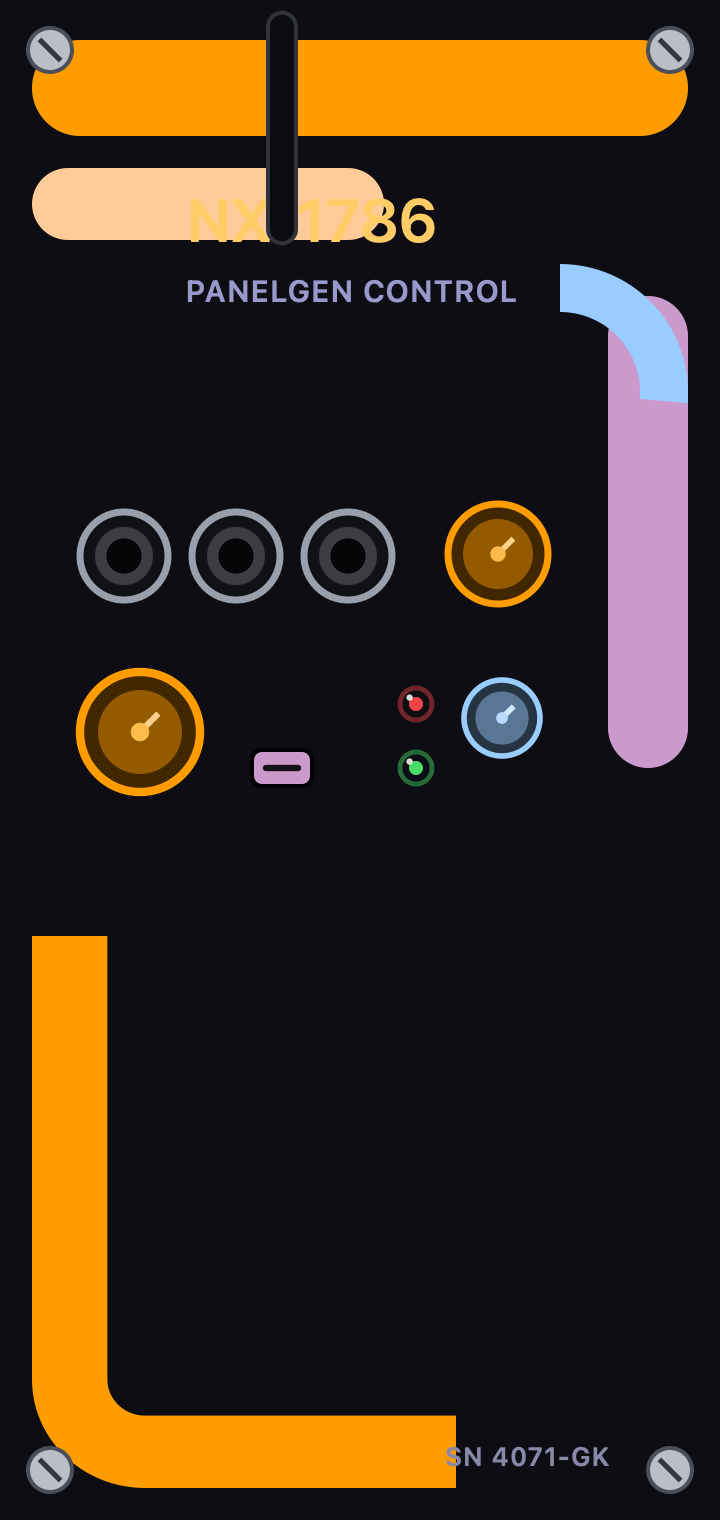
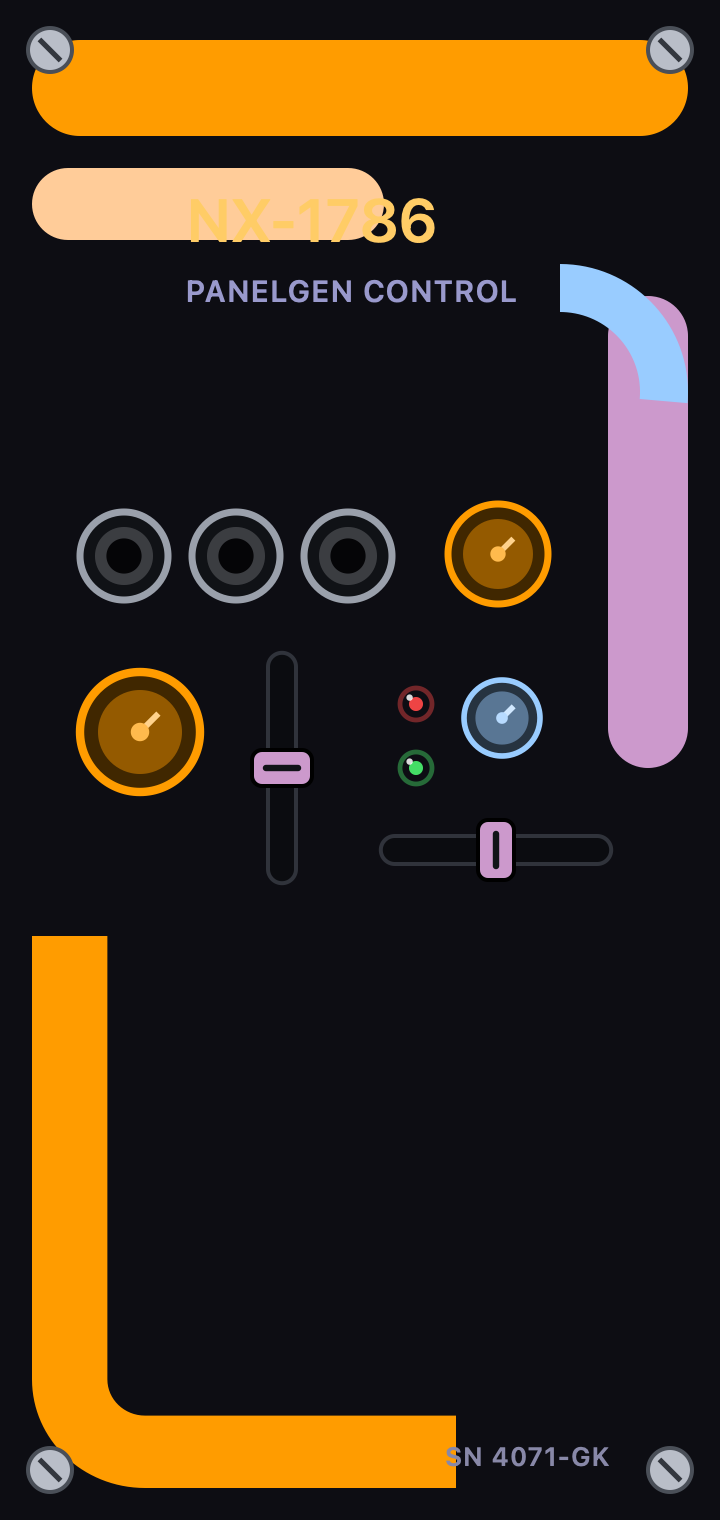
fix(renderer): fader tracks were drawn at panel edge, not inside the element
.faderHorizontal built its track rect with x: f.width * 0.05 (absolute
panel coords) and .faderVertical with y: f.height * 0.05 — so the dark
track capsule rendered at the panel's left/top edge instead of inside
the fader frame. It moved with nudges on one axis only (y came from
f.midY, x from f.width), which made it look like a stray slider part.

Both tracks are now offset from f.minX/f.minY. Demo panel gains a
horizontal fader so the selftest renders both orientations.

diff --git a/Sources/PanelGenerator/Renderer.swift b/Sources/PanelGenerator/Renderer.swift
@@ -156,7 +156,7 @@ enum Renderer {
 
         case .faderVertical:
             let trackW = min(7, f.width * 0.45)
-            let track = CGRect(x: f.midX - trackW / 2, y: f.height * 0.05,
+            let track = CGRect(x: f.midX - trackW / 2, y: f.minY + f.height * 0.05,
                                width: trackW, height: f.height * 0.9)
             let hh = max(9, f.height * 0.14)
             let hy = f.maxY - hh - el.params.value * (f.height - hh)
@@ -174,7 +174,7 @@ enum Renderer {
 
         case .faderHorizontal:
             let trackH = min(7, f.height * 0.45)
-            let track = CGRect(x: f.width * 0.05, y: f.midY - trackH / 2,
+            let track = CGRect(x: f.minX + f.width * 0.05, y: f.midY - trackH / 2,
                                width: f.width * 0.9, height: trackH)
             let hw = max(9, f.width * 0.14)
             let hx = f.minX + el.params.value * (f.width - hw)

diff --git a/Sources/PanelGenerator/Selftest.swift b/Sources/PanelGenerator/Selftest.swift
@@ -40,6 +40,7 @@ enum Selftest {
         add(.knobMedium, 112, 126)
         add(.knobLarge, 20, 168)
         add(.faderVertical, 62, 160)
+        add(.faderHorizontal, 92, 204)
         add(.led, 100, 172, fill: .hex("#EE4444"))
         add(.led, 100, 188, fill: .hex("#44DD66"))
         add(.knobSmall, 116, 170)
